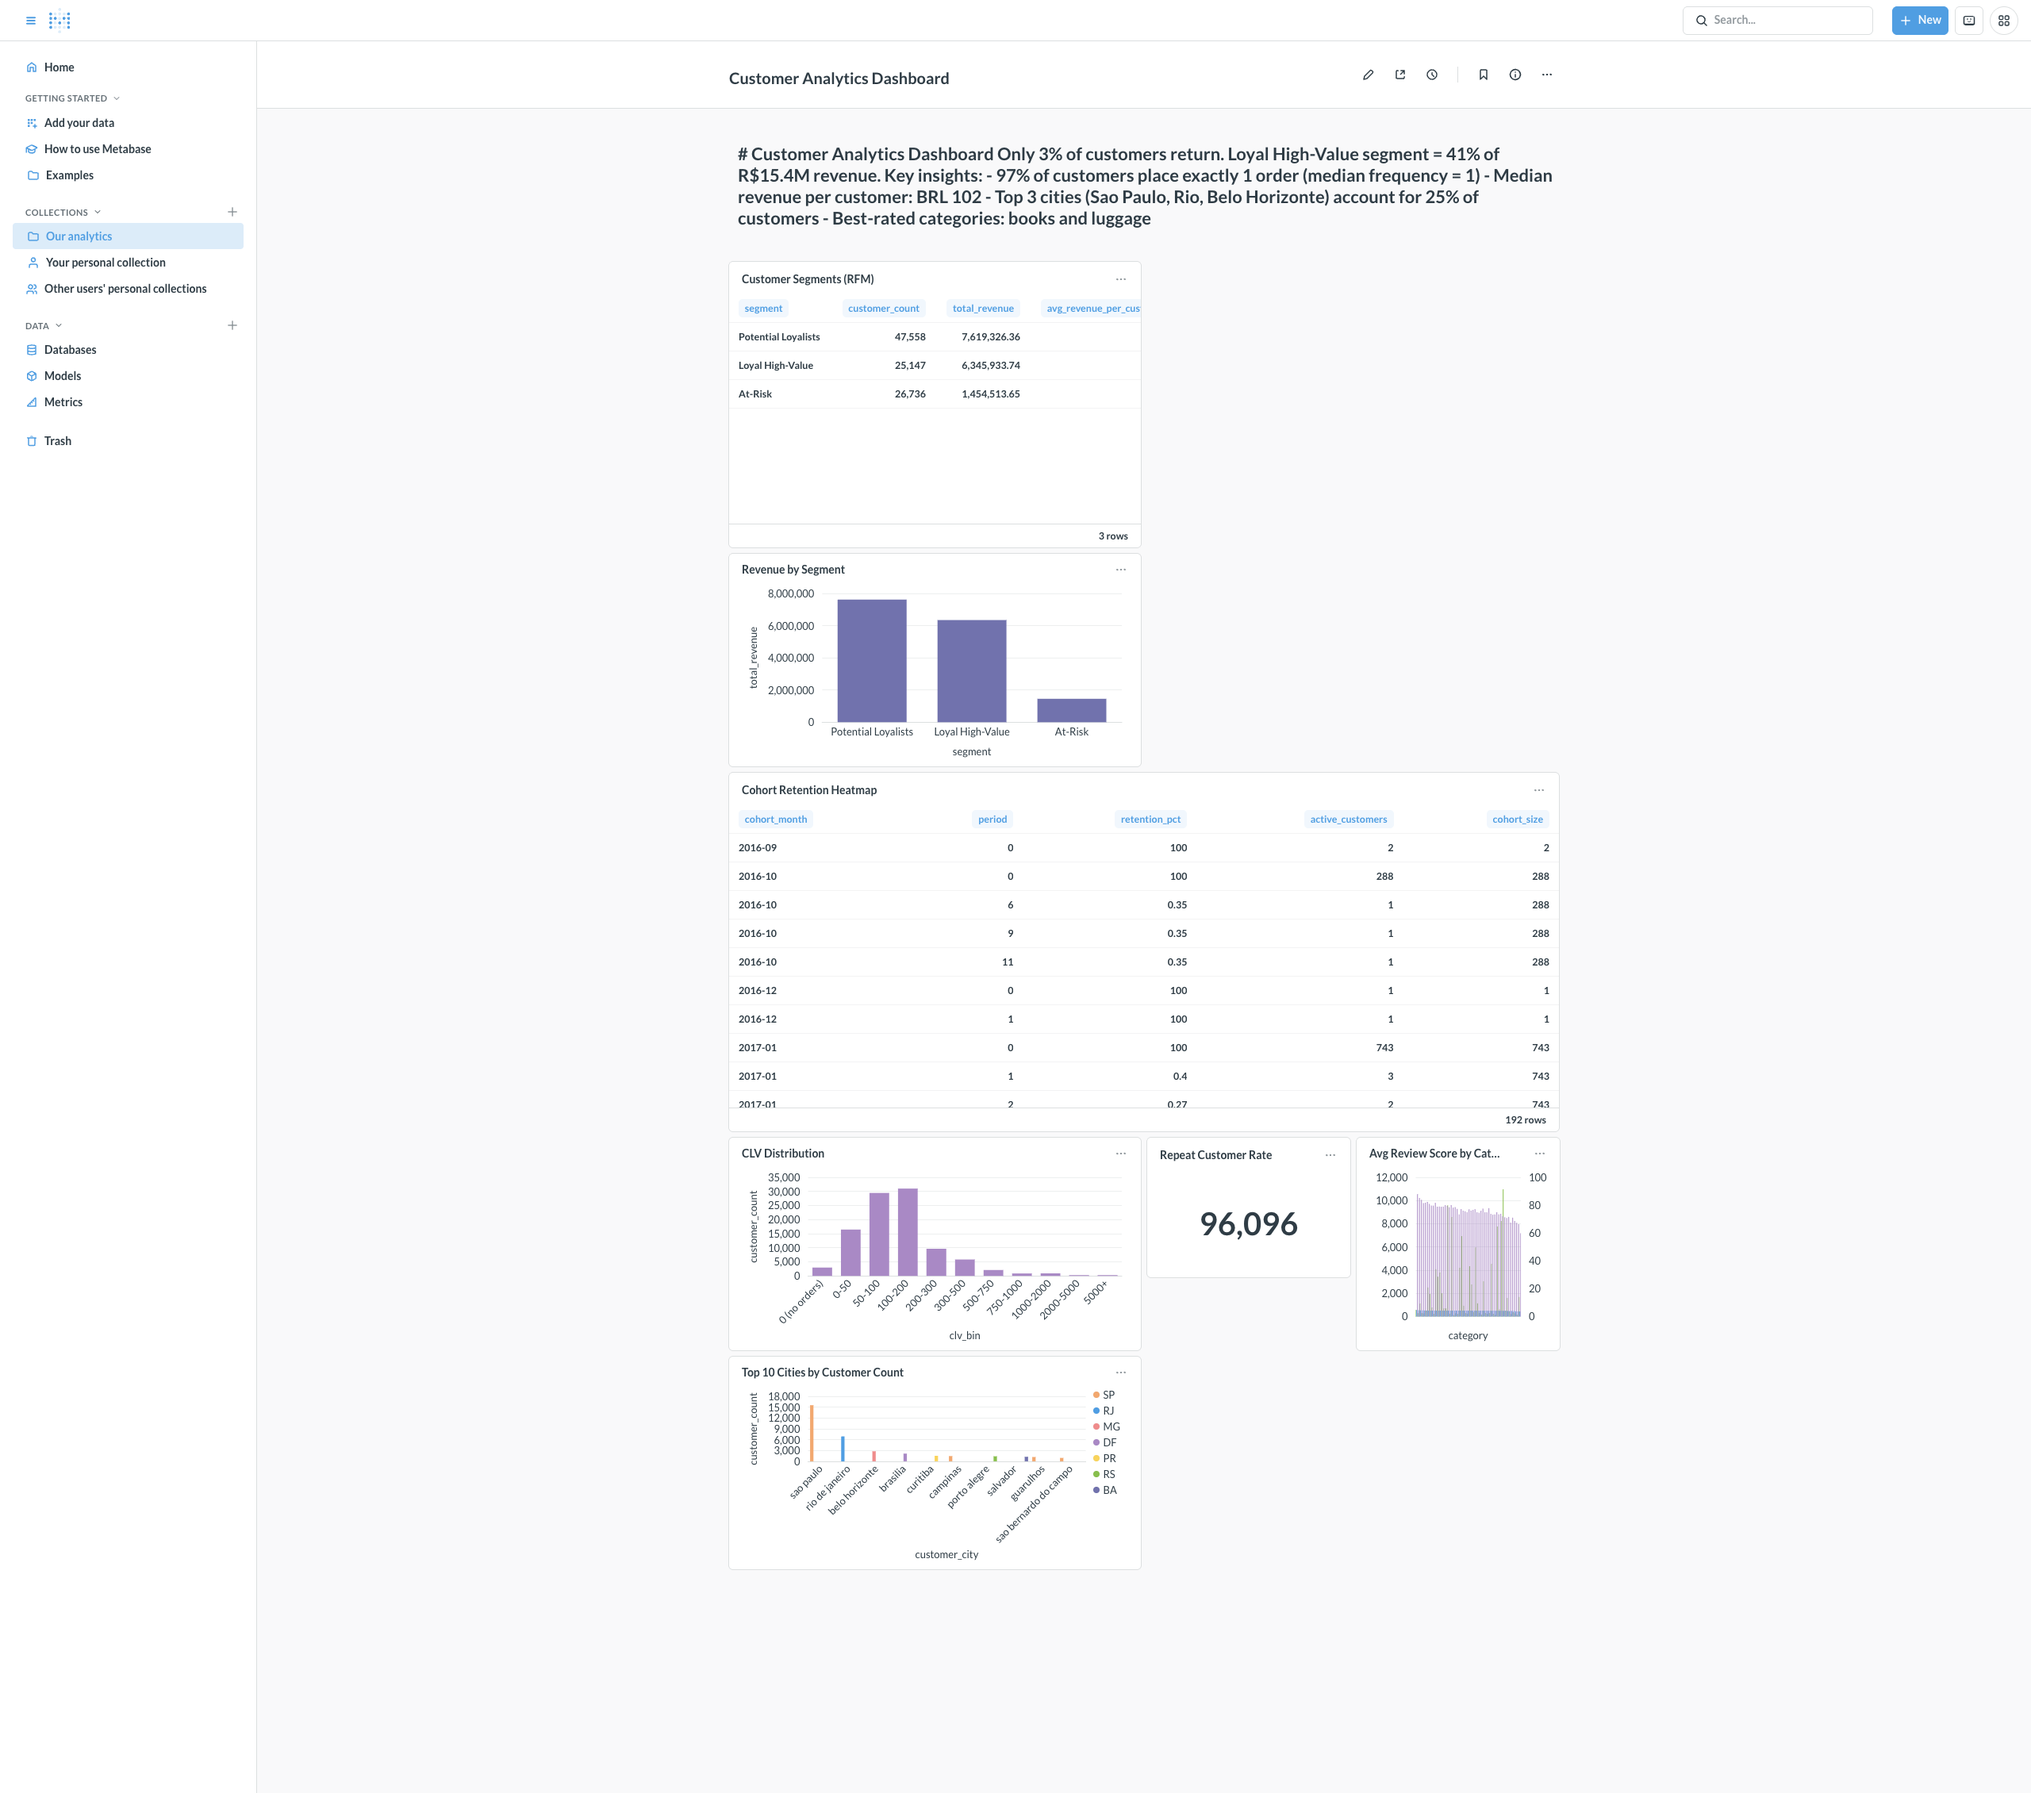
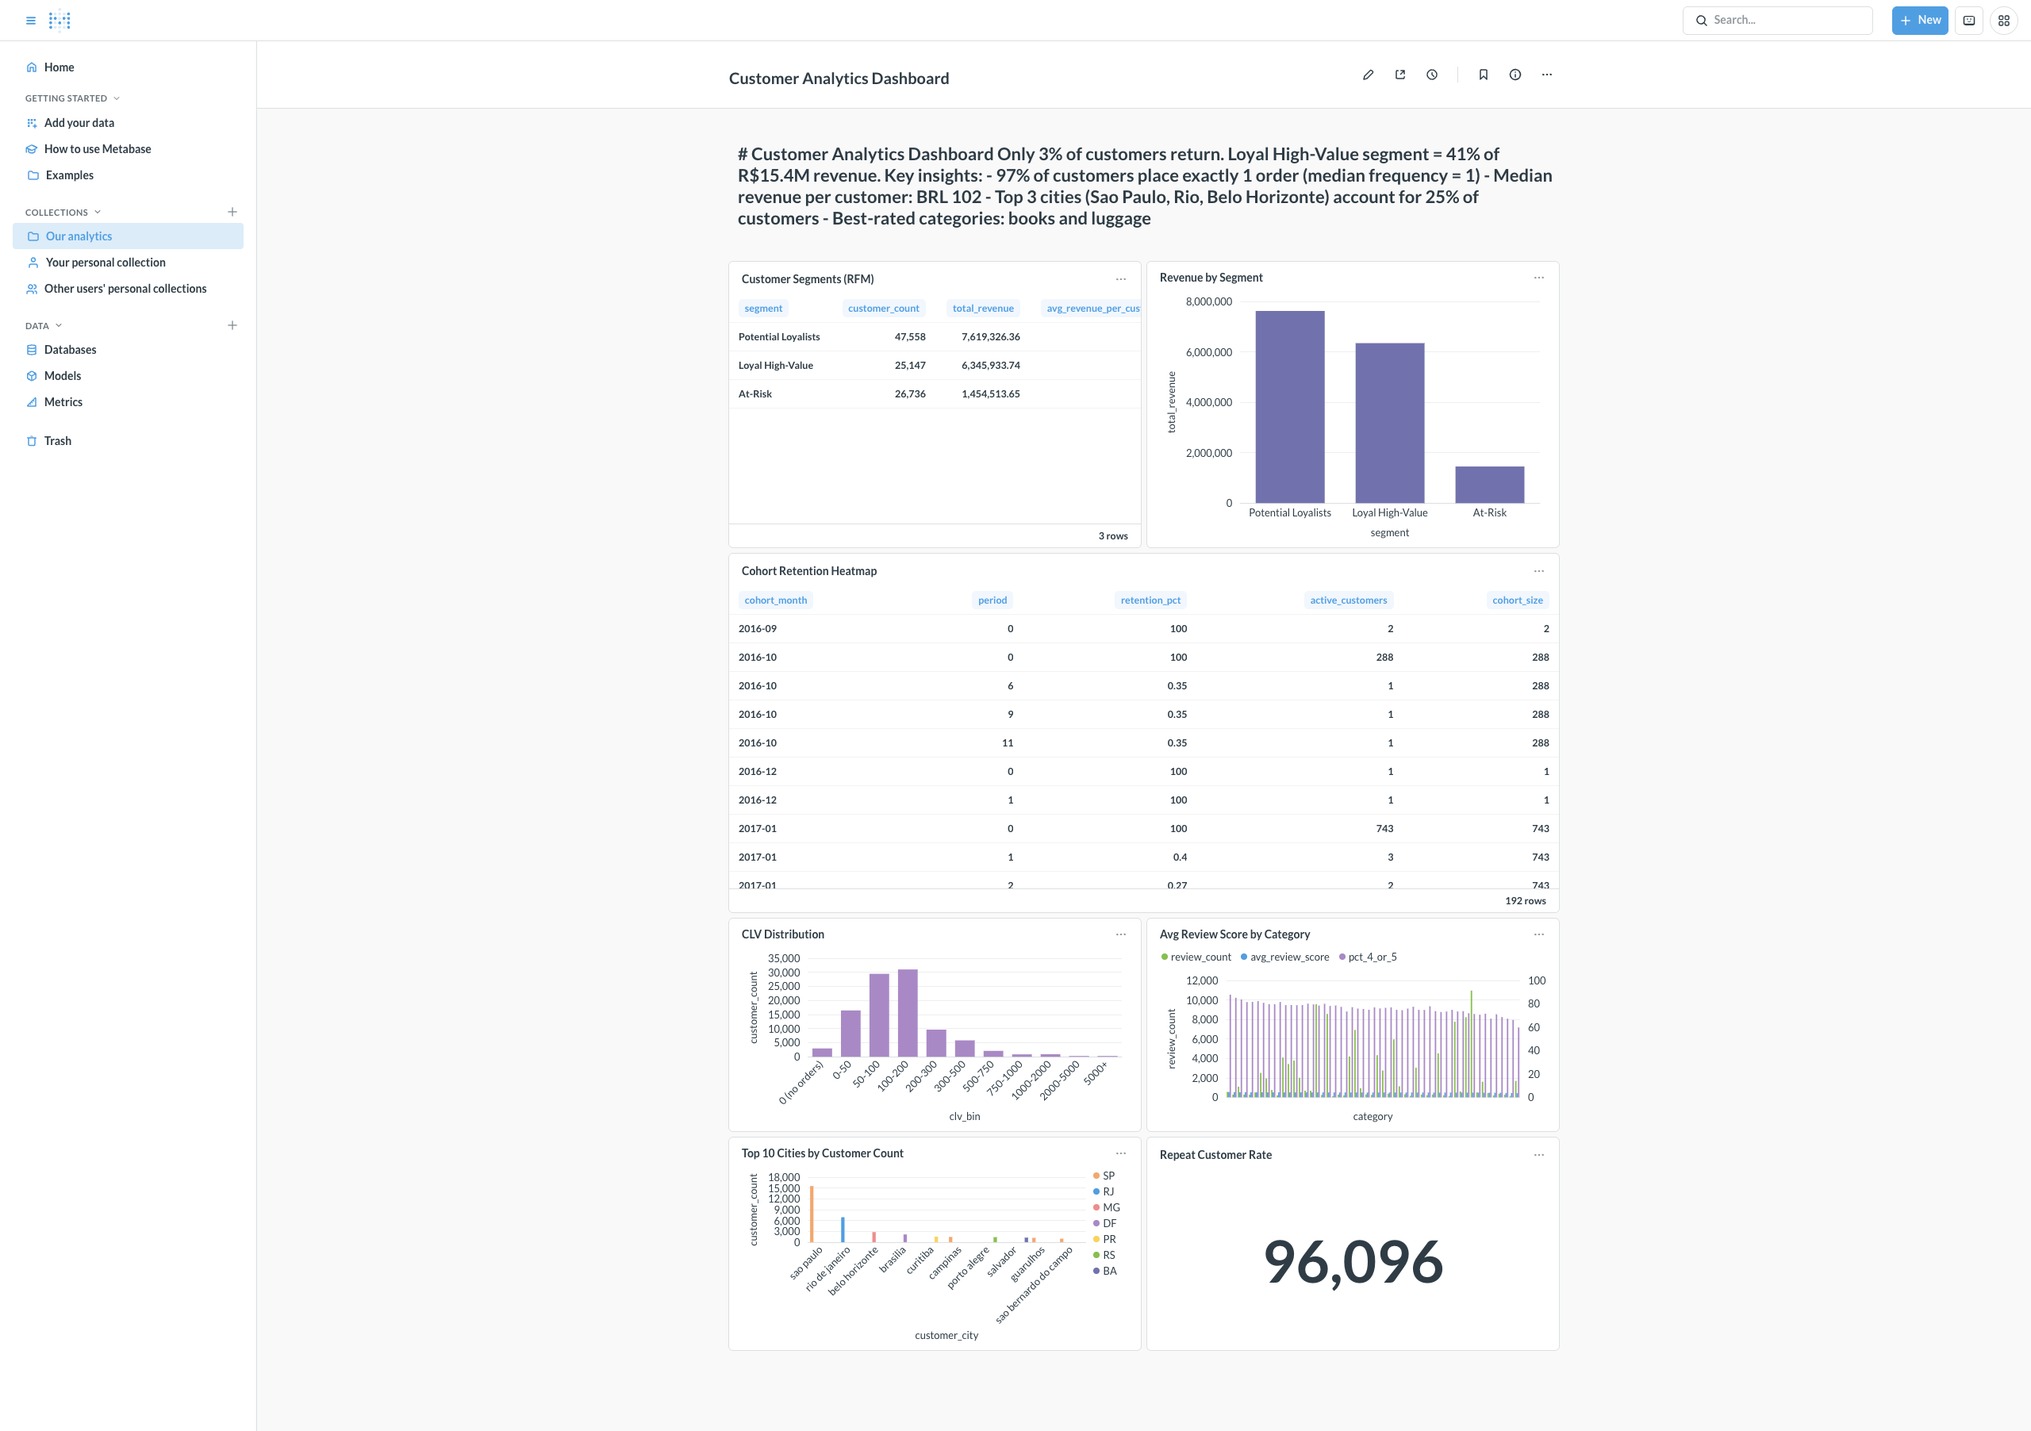
fix(dashboards): split E-commerce into 3 tabs and fix card layouts
E-commerce Insights has 3 tabs that were collapsed into a single screenshot:
- Overview (12 cards): revenue, orders, KPIs
- Portfolio Performance (13 cards): products, categories, sources
- Website Analysis (11 cards): checkout funnel, subscriptions, age groups

Now captured as separate full-page screenshots:
- 01a_e-commerce_overview.png
- 01b_e-commerce_portfolio.png
- 01c_e-commerce_website.png

Executive Dashboard layout fixed:
- Removed empty text card that was sitting at the bottom
- Cards were crammed into the left half of the 24-col grid
- Now uses the full width: 3 KPIs (8 wide each), full-width Revenue Trend,
  paired charts (Top Categories | Revenue by State, Payment | Order Status)

Customer Analytics Dashboard layout fixed:
- Customer Segments (RFM) and Revenue by Segment now side-by-side
- Avg Review Score by Category enlarged from 6 wide to 12 wide to match
  CLV Distribution and Top 10 Cities
- Repeat Customer Rate also enlarged to 12 wide

diff --git a/README.md b/README.md
@@ -266,8 +266,8 @@ The same Olist data was also used to build a self-service BI layer: 4 interactiv
 
 | Dashboard | Cards | Focus | Screenshot |
 |-----------|-------|-------|------------|
-| **E-commerce Insights** | 36 | Revenue by state, products, categories, sources, checkout funnel | [01_e-commerce_insights.png](./dashboards/01_e-commerce_insights.png) |
-| **Executive Dashboard** | 9 | KPIs (revenue, orders, AOV), trends, top categories, payment mix | [02_executive_dashboard.png](./dashboards/02_executive_dashboard.png) |
+| **E-commerce Insights** (3 tabs) | 36 | Revenue by state, products, categories, sources, checkout funnel | [Overview](./dashboards/01a_e-commerce_overview.png) · [Portfolio](./dashboards/01b_e-commerce_portfolio.png) · [Website](./dashboards/01c_e-commerce_website.png) |
+| **Executive Dashboard** | 8 | KPIs (revenue, orders, AOV), trends, top categories, payment mix | [02_executive_dashboard.png](./dashboards/02_executive_dashboard.png) |
 | **Customer Analytics** | 8 | RFM segmentation, CLV distribution, cohort retention, repeat rate | [03_customer_analytics_dashboard.png](./dashboards/03_customer_analytics_dashboard.png) |
 | **Operations** | 8 | Fulfillment funnel, delivery time, on-time rate, review scores | [04_operations_dashboard.png](./dashboards/04_operations_dashboard.png) |
 
@@ -350,10 +350,12 @@ ecommerce-analytics-BI/
 ├── hex_export/       ← Original Hex YAML project + AI prompt
 ├── reports/          ← Output reports (PDF, figures)
 ├── scripts/          ← Data download utilities
-├── dashboards/       ← BI dashboard screenshots (Metabase)
+├── dashboards/       ← BI dashboard screenshots (Metabase) — 6 files for 4 dashboards
+│                        (E-commerce Insights has 3 tabs: a=Overview, b=Portfolio, c=Website)
 ├── sql/              ← All 70+ native SQL queries, grouped by dashboard
 ├── dbt-models/       ← dbt staging view SQL + mart table DDL
 ├── bi-pipeline/      ← BI pipeline infrastructure files (Postgres schema DDL)
+├── bi-screenshot.cjs ← Playwright script for re-capturing the dashboard screenshots
 ├── docs_RECOVERY.md  ← Metabase recovery writeup
 ├── requirements.txt  ← Python dependencies
 ├── DATA_LICENSE.md   ← CC BY-NC-SA 4.0 (for Olist dataset)

diff --git a/docs_RECOVERY.md b/docs_RECOVERY.md
@@ -119,3 +119,13 @@ If you have to do this in the future and you know the user has been active befor
 - ❌ `password_salt = UUID` with `password = bcrypt(uuid + plain)` — works mathematically, but
   the CLI was writing to wrong column
 - ❌ Restarting Metabase to clear in-memory rate limiting — necessary but not sufficient
+
+## Subsequent layout fixes
+
+After the initial recovery, two follow-up issues were addressed:
+
+1. **Broken data connection in Metabase**: The Metabase database record was still pointing at `host: postgres` (the old docker-compose service name) instead of the recovery container. Fixed via `PUT /api/database/2` with `host: host.docker.internal`, then `POST /api/database/2/sync_schema` to refresh the metadata cache.
+
+2. **Dashboard layout cleanup**:
+   - **Executive Dashboard** had its cards packed into the left half of a 24-col grid (KPIs at 4 wide each, etc.), and had a leftover empty text card at the bottom. Redesigned to use the full 24-col grid: 3 KPIs at 8 wide each, full-width Revenue Trend, paired cards (Top Categories | Revenue by State, Payment Distribution | Order Status), and the empty text card removed.
+   - **Customer Analytics Dashboard** had Customer Segments and Revenue by Segment stacked vertically (12 wide each), and Avg Review Score was squeezed into a 6-wide column while CLV Distribution and Top 10 Cities were 12 wide. Redesigned so Customer Segments | Revenue by Segment are side-by-side (12 wide each), and Avg Review Score is now 12 wide like the other charts.
